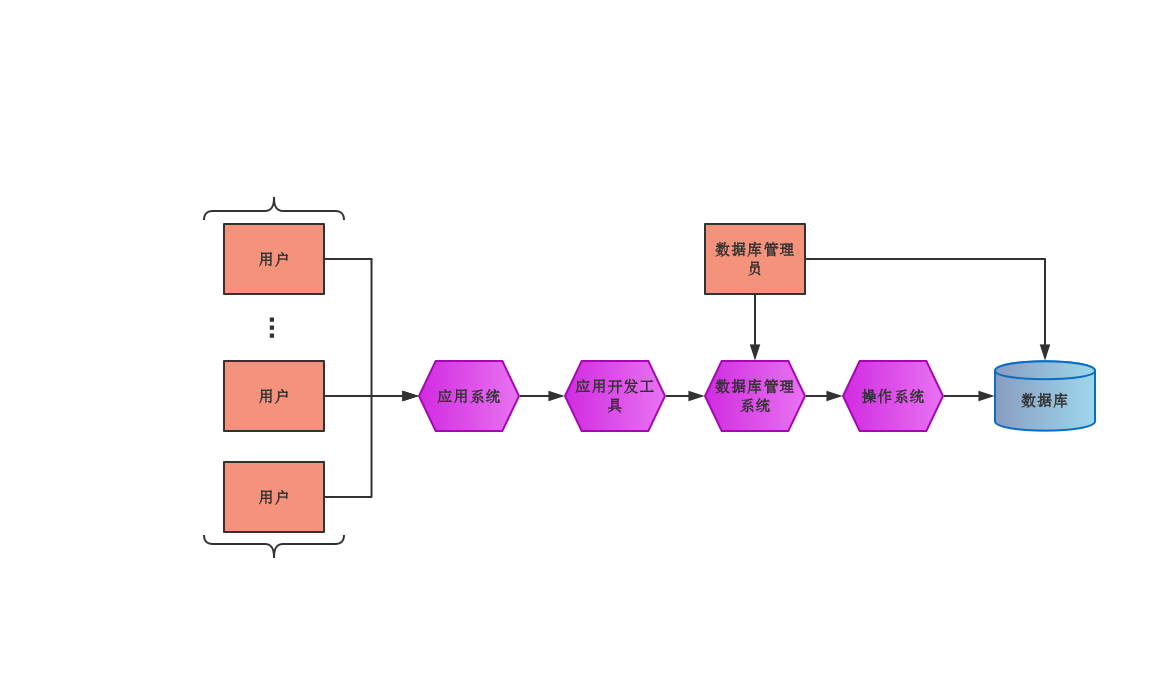
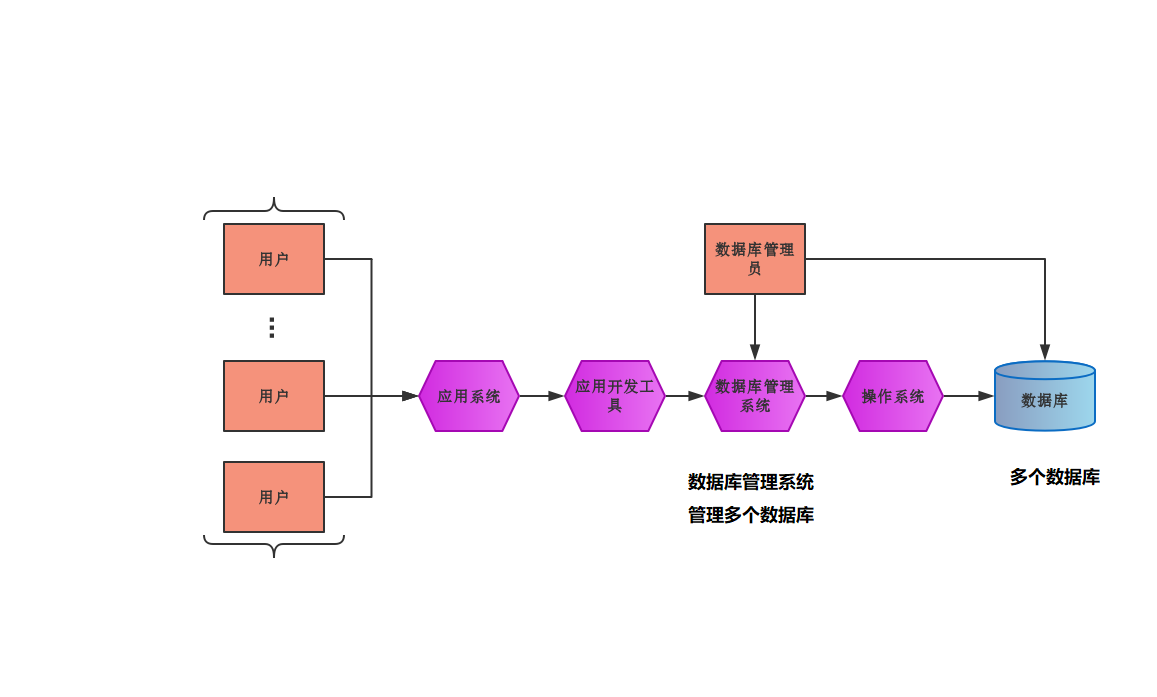
dev_branch 20/5/26 add contents of database and two pictures

Changed region(s): [[0.5912, 0.6628, 0.7156, 0.7532], [0.8712, 0.6628, 0.9646, 0.693]]

diff --git a/database_notes.md b/database_notes.md
@@ -1,4 +1,4 @@
-数据库技术
+# 数据库技术
 
 ## 数据库概述
 
@@ -10,7 +10,7 @@
 
    - 数据是数据库存储的基本对象
 
-   - 广义的理解认为数据有很多种，例如：文本（text）、图像（graph）、图像（image）、音频（audio）、视频（video）、学生的档案记录等，这些都是数据
+   - 广义的理解认为数据有很多种，例如：文本（text）、图像（graph）、图像（image）、音频（audio）、视频（video）、学生的档案记录等，这些都是数据。
 
    - 数据可做如下定义：描述事物的符号记录称之为数据
    - 数据的表型形式还不能完全表达其内容，需要经过解释，数据和关于数据解释是不可分的，例如：93 是一个数据，但可以表示某个学生某门课的成绩，也可以表示某个人的体重。__数据的解释是指对数据的含义说明，数据的含义称之为数据的语义，数据和语义是分不开的__
@@ -18,7 +18,7 @@
 2. 数据库（DataBase，DB）
 
    - 数据库，顾名思义，是存放数据的仓库。只不过这个仓库是在计算机存储设备上，而且数据是按照一定格式存放的
-   - 严格来将，数据库是长期存储在计算机内、有组织、可共享的大量数据集合。数据库中的数据按一定数据模型组织、描述存储，具有较小的冗余度（redundancy），较高的数据独立性（data independency）和一扩展性（scalability），并可为各种用户共享。
+   - 严格来将，数据库是长期存储在计算机内、有组织、可共享的大量数据集合。数据库中的数据按一定数据模型组织、描述存储，具有较小的冗余度（redundancy），较高的数据独立性（data independency）和一定扩展性（scalability），并可为各种用户共享。
    - __概括来讲，数据库数据具有永久存储、有组织和可共享三个基本特点__
 
 3. 数据库管理系统（DataBase Management System）
@@ -41,7 +41,7 @@
 
      4. 数据库的事务管理和运行管理
 
-        数据库在建立、运用和维护时由数据库管理系系统统一管理和控制，以确保事物的正确运行，保证数据的安全性、完整性、多用户对数据的并发使用及发生故障的系统恢复
+        数据库在建立、运用和维护时由数据库管理系统统一管理和控制，以确保事物的正确运行，保证数据的安全性、完整性、多用户对数据的并发使用及发生故障的系统恢复
 
      5. 数据库的建立和维护功能
 
@@ -86,9 +86,54 @@
    - 表的操作：创建、修改、删除
    - 数据的操作：增加、删除、修改、查询，简称 crud（create、read、updata、delect）
 
+### MySQL 卸载与安装
+
+#### 卸载
+
+1. Windows 的卸载（Windows 安装好像会有两种方式，但是卸载大同小异）
+
+   - 第一步：
+
+     1. 停掉 MySQL 服务（管理器 --> 服务）
+
+        ![MySQL服务](git_picture/MySQL服务.jpg)
+
+   - 第二步：
+
+     1. 使用 __控制面板__ 删除 MySQL 安装包，或者直接到 MySQL 安装目录中删除软件包（此种做法是 Mysql 的另一种安装方式，因为在控制面板中找不到 MySQL 的安装包）
+
+   - 第三步：
+
+     1. 删除 MySQL 残留的文件，及 MySQL 存储的数据
+     2. 如果 MySQL 安装时指定了安装目录和数据的存储位置，直接到相应目录去删除
+     3. 如果 MySQL 安装时没有指定位置，或数据存储没有指定位置，__数据存放一般在 `C:\ProgramData` 目录下__，此目录是隐藏目录
+
+   - 第四步：
+
+     1. 删除注册信息
+
+     2. `win+R` 输入 `regedit` 打开注册表，删除以下注册信息
+
+        __说明：`ControlSet001` 有可能是 `002/003` 等等 __
+
+        ```tex
+        计算机\HKEY_LOCAL_MACHINE\SYSTEM\CurrentControlSet\Services\EventLog\Application\MySQL
+        计算机\HKEY_LOCAL_MACHINE\SYSTEM\CurrentControlSet\Services\MySQL
+        计算机\HKEY_LOCAL_MACHINE\SYSTEM\ControlSet001\Services\EventLog\Application\MySQL
+        计算机\HKEY_LOCAL_MACHINE\SYSTEM\ControlSet001\Services\MySQL
+        ```
+
+
+#### 安装
+
+1. 安装 MySQL 数据库
+
+   - [参考地址: 菜鸟教程](https://www.runoob.com/mysql/mysql-install.html) ，包含 Windows 和 Linux 的安装
+   - [参考地址: 简书参考地址](https://www.jianshu.com/p/fd56e1ce7379) ，自己亲身实践，包含 基于Ubuntu 的安装
+
 ### 数据库介绍
 
-说明：数据库分为 __服务端__ 和 __客户端__
+说明：数据库分为 __服务端__ 和 __客户端__ ，使用 TCP/IP 协议
 
 1. 服务端（server）：存储数据（一个服务端，可以连接多个客户端）
 2. 客户端（client）：读写存储数据
@@ -107,9 +152,10 @@
 
    - 学生表
 
-     | 学号   | 姓名 | 性别 | 出生年份 | 专业   | 入学年份  |
-     | ------ | ---- | ---- | -------- | ------ | --------- |
-     | 123456 | 小明 | 男   | 2000.1.1 | 计算机 | 2019..9.1 |
+     | 学号   | 姓名 | 性别 | 出生年份 | 专业     | 入学年份 |
+     | ------ | ---- | ---- | -------- | -------- | -------- |
+     | 123456 | 小明 | 男   | 2000.1.1 | 计算机   | 2019.9.1 |
+     | 678901 | 小红 | 女   | 2000.1.4 | 软件科学 | 2020.9.1 |
 
    - 学生表中，学生的属性（学号、姓名等）为表的列，行为实体的对象
 
@@ -129,9 +175,9 @@
 
      例如：一门课程同时有若干个学生选修，而一个学生可以同时选修多门课程，则课程与学生之间具有多对多联系
 
-4. 实体的联系（关系）表
+4. 实体的联系（又称：关系表）
 
-   说明：待续
+   说明：使用外键，唯一标识实体表中的实体对象
 
 ### 范式
 
@@ -139,13 +185,13 @@
 
 1. 第一范式（1NF）
 
-   - 列不可拆分
+   - 列不可拆分，实体的属性（实体对象：对应表中的列）
 
 2. 第二范式（2NF）
 
    - 唯一标识
 
-     在一个实体表中，有一个属性可以唯一标识一个实体对象（表的一行）
+     在一个实体表中，有一个属性可以唯一标识一个实体对象（实体对象：对应表的一行数据）
 
 3. 第三范式（3NF）
 
@@ -159,7 +205,7 @@
 
 1. 数据的正确性
 
-   - 数据的正确性是指数据是符合现实世界语音，反应当前实际状况
+   - 数据的正确性是指数据是符合现实世界语义，反应当前实际状况
 
 2. 数据相容性
 
@@ -167,40 +213,67 @@
 
 3. 数据完整性例子
 
-   - 例如：学生的学号必须是为一的，性别只能是男或女，本科学生年龄的取值范围为 [14, 50] 学生所选的可必须是学校开设的课程，学生所在院系必须是学校已成立的院系等
+   - 例如：学生的学号必须是唯一的、性别只能是男或女、~~本科学生年龄的取值范围为 [14, 50]~~ 、学生所选的可必须是学校开设的课程、学生所在院系必须是学校已成立的院系等
 
 4. 数据类型
 
    说明：mysql 常见的几种数据类型
 
-   - __数值类型__
+   - __整数类型__ （常用类型标粗）
 
-     | 类型          | 大小                                    | 范围（有符号）          | 范围（无符号） | 用途     |
-     | ------------- | --------------------------------------- | ----------------------- | -------------- | -------- |
-     | tinyint       | 1 个字节                                | (-128, 127)             | (0, 255)       | 小整数型 |
-     | int / integer | 4 个字节                                | (-8 388 608, 8 388 607) | (0, 65 535)    | 大整数型 |
-     | decimal       | 对 decimal(M,D) 为最多 M位，小数占 D 位 | 依赖于 M，D             | 依赖于 M，D    | 小数值   |
-     | bit           | bit(2),占 2 个位                        |                         |                | 布尔值   |
-
+     | 类型              | 大小     | 范围（有符号）          | 范围（无符号） | 用途     |
+     | ----------------- | -------- | ----------------------- | -------------- | -------- |
+     | __tinyint__       | 1 个字节 | (-128, 127)             | (0, 255)       | 小整数型 |
+     | smallint          | 2 个字节 | (-2^15, 2^15-1)         | (0, 2^16-1)    |          |
+     | mediumint         | 3 个字节 | (-2^23, 2^23-1)         | (0, 2^23-1)    |          |
+     | __int / integer__ | 4 个字节 | (-8 388 608, 8 388 607) | (0, 65 535)    | 大整数型 |
+     | bigint            | 8 个字节 | (-2^63, 2^63-1)         | (0, 2^63-1)    |          |
+     
      解释：bit 一般用于状态的标记,因为 2 进制，所以一位二进制可以表示两种状态
+     
+   - 浮点数类型
+
+     | 类型        | 大小                                                         | 范围（有符号） | 范围（无符号） | 用途   |
+     | ----------- | ------------------------------------------------------------ | -------------- | -------------- | ------ |
+     | **decimal** | 可以单独使用，也可以精度先设置对 decimal(M,D) 为最多 M位，小数占 D 位 <br> 底层使用字符串存储，以提高精度 | 依赖于 M，D    | 依赖于 M，D    | 小数值 |
+     | float       | 4 个字节，可以单独使用，也可以精度设置 float(M,D)            |                |                |        |
+     | double      | 8 个字节，可以单独使用，也可以精度设置 double(M,D)           |                |                |        |
+     | **bit**     | bit(M)，占 M 个位，M 的取值范围 [1, 64] ，默认是 1           |                |                | 位类型 |
 
    - __字符串类型__
 
-     | 类型    | 大小          | 用途         |
-     | ------- | ------------- | ------------ |
-     | char    | 0-255 字节    | 定长字符串   |
-     | varchar | 0-65 535 字节 | 变长字符串   |
-     | text    | 0-65 535 字节 | 长文本字符串 |
+     | 类型       | 大小          | 用途         |
+     | ---------- | ------------- | ------------ |
+     | char       | 0-255 字节    | 定长字符串   |
+     | varchar(M) | 0-65 535 字节 | 变长字符串   |
+     | text       | 0-65 535 字节 | 长文本字符串 |
 
-     解释：char(4)，长度位 4 个字符，不足右边补空格，超出截取。varchar(4)，最长 4 个字符，可以不足，但超出截取
+     解释：char(4)，长度位 4 个字符，不足右边补空格，超出截取（效率高，浪费空间）。varchar(4)，最长 4 个字符（实际长度 = 实际字符 + 2 个字节，用来记录个数的），可以不足，但超出截取（效率低，节省空间，Mysql 对其进一步优化，效率也不错，使用率高）。
 
    - __日期和时间类型__
 
-     | 类型     | 大小     | 范围                                      | 格式                | 用途             |
-     | -------- | -------- | ----------------------------------------- | ------------------- | ---------------- |
-     | date     | 3 个字节 | 1000-01-01 / 9999-12-31                   | YYYY-MM-DD          | 日期值           |
-     | time     | 3 个字节 | -838:59:59 / 838:59:59                    | HH:MM:SS            | 时间值           |
-     | datetime | 8 个字节 | 1000-01-10 00:00:00 / 9999-12-31 23:59:59 | YYYY-MM-DD HH:MM:SS | 混合时间和日期值 |
+     | 类型      | 大小     | 范围                                      | 格式                   | 用途                                             |
+     | --------- | -------- | ----------------------------------------- | ---------------------- | ------------------------------------------------ |
+     | date      | 3 个字节 | 1000-01-01 / 9999-12-31                   | YYYY-MM-DD             | 日期值                                           |
+     | time      | 3 个字节 | -838:59:59 / 838:59:59                    | HH:MM:SS               | 时间值                                           |
+     | datetime  | 8 个字节 | 1000-01-10 00:00:00 / 9999-12-31 23:59:59 | YYYY-MM-DD HH:MM:SS    | 混合时间和日期值                                 |
+     | year      | 1 个字节 | 1901 / 2155                               | YYYY 或者 YY（不推荐） | 年份类型                                         |
+     | timestamp | 4 个字节 | 1970-01-01 00:00:00 / 2038-01-19 03:14:07 | YYYY-MM-DD HH:MM:SS    | __时间戳__（实际存储的是毫秒值，取出时进行计算） |
+     
+   - __int 类型使用注意__
+
+     1. `int(M)` ，M 表示宽度，需要结合 ~~`unsigned`~~ 和 `zerofill` 使用
+     2. `unsigned` ，表示无符号数（没有负数）
+     3. `zerofill` ，表示使用 0 填充
+     4. 例如 `int(3) zerofill`  ，整数位数不足 3 位的，左边使用 0 补齐，位数超出 3 位的，正常显示（默认情况 M 为 int 的存储能力大小，以空格填充） 。`1` 使用 `001` 表示 。
+
+   - __日期输入注意__
+
+     1. `year` 类型，可以输入 4 位数 ，如 `2020` ，也可以输入 2 位数，如 `20` 。如 `19-20` 则表示 `2019-2020` 。
+     2. `YYYY-MM-DD HH:MM:SS` `YY-MM-DD HH:MM:SS` 或 `YYYY-MM-DD` `YY-MM-DD` ，允许不严格输入：__任何标点符都可以作为日期部分和时间部分的分隔符__ 。例如 `10-12-01 01:01:00` 、`10.12.01 01+20+09` 、`20@01@01 01^01^01` 等等
+     3. `YYYYMMDD` 和 `YYMMDD` 没有间隔符的字符串：如果该字符串对于时间有意义，如 `20200820` 和 `200505` 可以被解释为 `2020-08-20` 和 `20-0505` ；如果该字符串对于时间没有意义，如 `20201490` (月份不合法) ，将解释为 `0000-00-00`
+     4. 对于包含日期部分并带有分隔符的字符串，如果日期小于 10 时，不需要指定 2 位数，如 `2020-5-5` 与 `2020-05-05` 相同。对于包含时间部分并带有分隔符的字符串，如果时间小于 10 时，也不需要使用 2 位，如 `2020-05-05 05:05:05` 与 `2020-5-5 5-5-5` 相同。
+     5. 一般时间选用 `timestamp` ，有一个重要特征，如果输入 `null` 自定设置为系统当前时间
 
 5. 约束
 
@@ -226,7 +299,7 @@
 
 ### Navicat 操作
 
-说明：[参考文档](https://www.navicat.com.cn/support/online-manual)    启动数据库 `mysql -h hostname -P port -u username -p password` 。一般直接使用 `mysql -u root -p` ，因为是连接自己的主机，使用默认的端口号，密码为空，所以简单。可以输入 `mysql --help` ，查看帮助
+说明：[参考文档](https://www.navicat.com.cn/support/online-manual)    启动数据库 `mysql -h hostname -P port -u username -ppassword` ，`-p` 与密码中间没有空格。一般直接使用 `mysql -u root -p` ，因为是连接自己的主机，使用默认的端口号，密码为空，所以简单。可以输入 `mysql --help` ，查看帮助
 
 1. 用户连接
 
